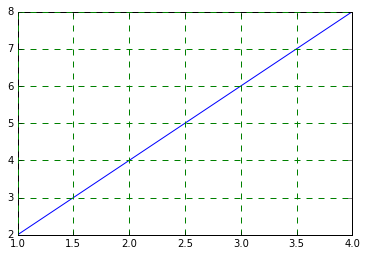
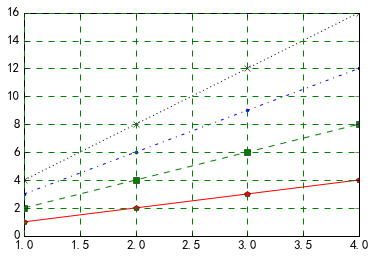
python draw pictures

diff --git a/_posts/2017-02-06-python-draw.md b/_posts/2017-02-06-python-draw.md
@@ -235,19 +235,19 @@ x=np.arange(1,100)
 
 plt.subplot(221)  # 2行2列第1个图
 
-plt.plot(x,x,'r*')
+plt.plot(x,x,'r-*')
 
 plt.subplot(222)
 
-plt.plot(x,-x,'g.')
+plt.plot(x,-x,'g--.')
 
 plt.subplot(223)
 
-plt.plot(x,x*x,'b+')
+plt.plot(x,x*x,'b-.+')
 
 plt.subplot(224)
 
-plt.plot(x,np.log(x),'y^')
+plt.plot(x,np.log(x),'y:^')
 
 plt.show()
 ```
@@ -266,7 +266,10 @@ import numpy as np
 
 y=np.arange(1,5)
 
-plt.plot(y,y*2)
+plt.plot(y,y,'r-p')
+plt.plot(y,y*2,'g--s')
+plt.plot(y,y*3,'b-..')
+plt.plot(y,y*4,'k:x')
 
 plt.grid(True,color='g',linestyle='--',linewidth='1')
 
